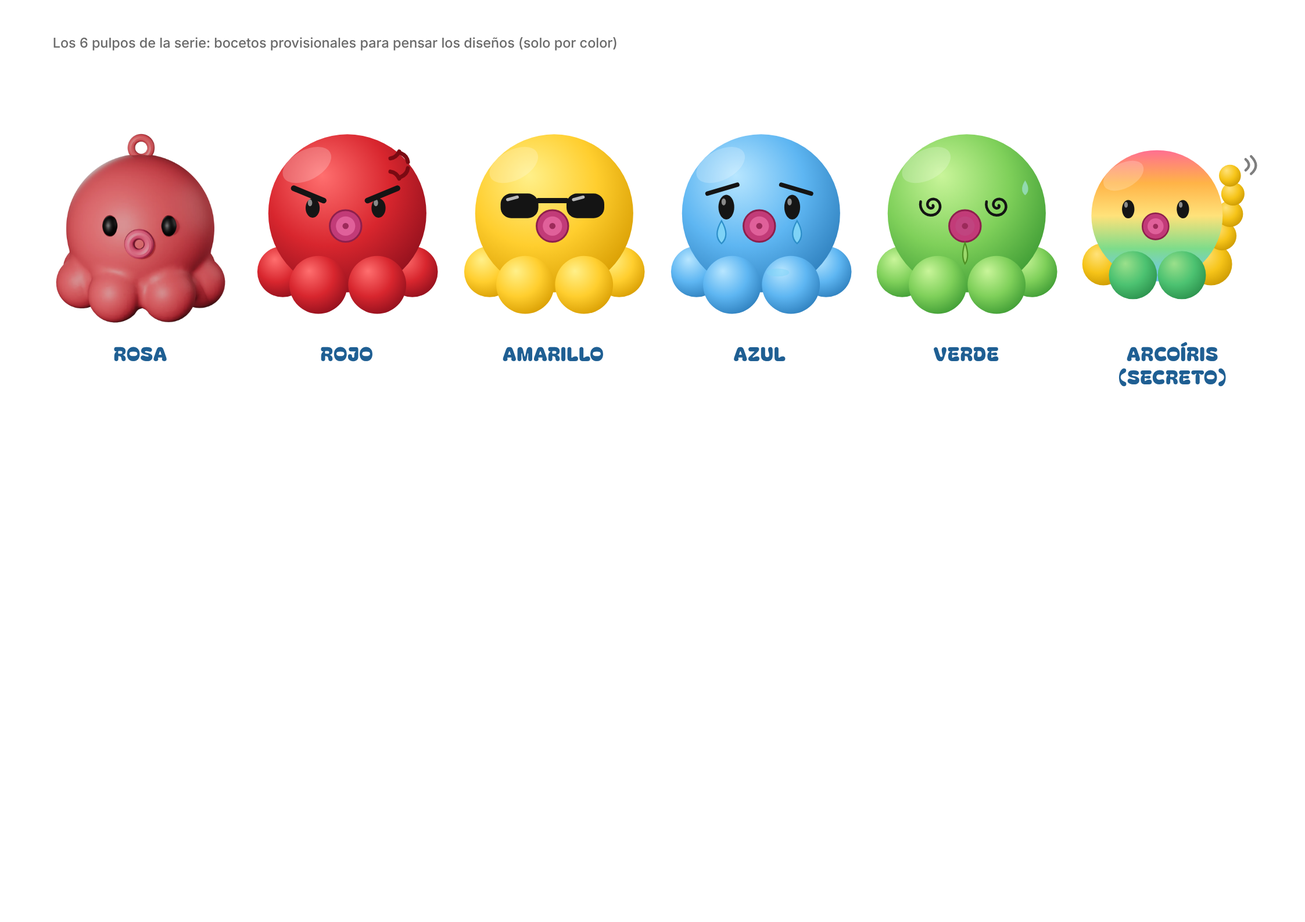
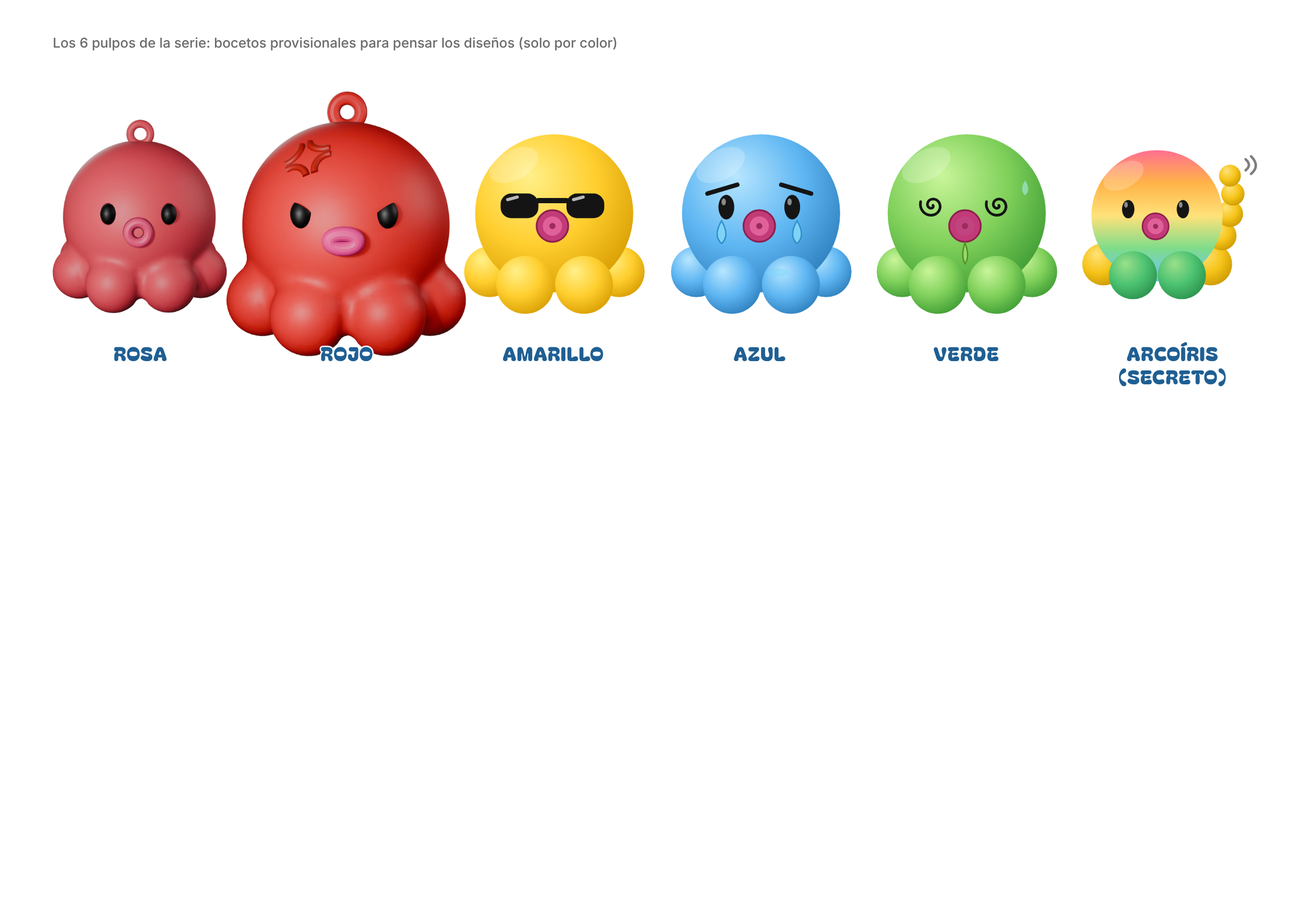
Wrapper: real red octopus render, shared crop so scales match
Claude-Session: https://claude.ai/code/session_01AQMCNjGQ1RjZg5f4v5YFio

Changed region(s): [[0.0312, 0.0926, 0.374, 0.4011]]

diff --git a/pulpos-mystery-box/diseno/personajes.html b/pulpos-mystery-box/diseno/personajes.html
@@ -9,8 +9,10 @@ body { font-family: Inter, sans-serif; background: #fff; }
 .small { font-family: var(--f), sans-serif; color: #1F5F93; -webkit-text-stroke: .6mm #FFFFFF; paint-order: stroke fill; letter-spacing: .15mm; font-size: 4.4mm; line-height: 1.2; text-align: center; }
 .note { font-size: 3.1mm; color: #6b6b6b; }
 .panel svg, .panel img { width: 100%; height: 100%; display: block; object-fit: contain; }
+.panel img { transform: scale(1.4); transform-origin: 50% 55%; }  /* los renders comparten recorte (con margen): se amplían para igualar a las siluetas */
+.panel.mini img { transform: scale(1.12); transform-origin: 50% 62%; }
 .fold { border-top: .3mm dashed #8a8a8a; }
 .foldv { border-left: .3mm dashed #8a8a8a; }
 .bubble { position: absolute; border-radius: 50%; border: .5mm solid rgba(255,255,255,.9); background: rgba(255,255,255,.35); }
 .pill { background: #BAE6FD; color: #1F5F93; -webkit-text-stroke: .5mm #FFFFFF; paint-order: stroke fill; font-family: var(--f); font-size: 3.6mm; padding: 1mm 3mm; border-radius: 3mm; }
-</style><div class="page"><div class="a note" style="left:12mm;top:8mm">Los 6 pulpos de la serie: bocetos provisionales para pensar los diseños (solo por color)</div><div class="a panel" style="left:10mm;top:30mm;width:44mm;height:44mm"><img src="pulpos/rosa.png" alt="rosa"></div><div class="a small" style="left:10mm;top:78mm;width:44mm">ROSA</div><div class="a panel" style="left:57mm;top:30mm;width:44mm;height:44mm"><svg viewBox="40 8 440 440" xmlns="http://www.w3.org/2000/svg"><defs><radialGradient id="g4" cx="40%" cy="35%" r="72%" fx="34%" fy="26%"><stop offset="0" stop-color="#FF6F6F"/><stop offset=".55" stop-color="#D8262E"/><stop offset="1" stop-color="#8E0F1C"/></radialGradient><radialGradient id="g5" cx="40%" cy="35%" r="72%" fx="34%" fy="26%"><stop offset="0" stop-color="#FF6F6F"/><stop offset=".55" stop-color="#D8262E"/><stop offset="1" stop-color="#8E0F1C"/></radialGradient><radialGradient id="g6" cx="40%" cy="35%" r="72%" fx="34%" fy="26%"><stop offset="0" stop-color="#FF6F6F"/><stop offset=".55" stop-color="#D8262E"/><stop offset="1" stop-color="#8E0F1C"/></radialGradient></defs><circle cx="115" cy="328" r="58" fill="url(#g4)"/><circle cx="410" cy="328" r="58" fill="url(#g4)"/><circle cx="262" cy="195" r="180" fill="url(#g5)"/><circle cx="196" cy="358" r="66" fill="url(#g6)"/><circle cx="330" cy="358" r="66" fill="url(#g6)"/><ellipse cx="170" cy="85" rx="60" ry="34" fill="#fff" opacity=".22" transform="rotate(-28 170 85)"/><ellipse cx="183" cy="183" rx="16" ry="22" fill="#151515"/><ellipse cx="333" cy="183" rx="16" ry="22" fill="#151515"/><ellipse cx="177" cy="171" rx="5" ry="8" fill="#fff" opacity=".5"/><ellipse cx="327" cy="171" rx="5" ry="8" fill="#fff" opacity=".5"/><circle cx="258" cy="224" r="36" fill="#C23B78"/><circle cx="258" cy="224" r="36" fill="none" stroke="#8E1F4D" stroke-width="4"/><circle cx="258" cy="224" r="22" fill="#E0609A"/><circle cx="258" cy="224" r="7" fill="#9C2A5A"/><path d="M140 138 L208 166 M376 138 L308 166" stroke="#141414" stroke-width="13" stroke-linecap="round"/><g stroke="#7A0A12" stroke-width="9" fill="none" stroke-linecap="round"><path d="M360 70 q14 -2 20 -16"/><path d="M400 78 q-2 -14 -16 -20"/><path d="M360 100 q14 2 20 16"/><path d="M400 92 q-2 14 -16 20"/></g></svg></div><div class="a small" style="left:57mm;top:78mm;width:44mm">ROJO</div><div class="a panel" style="left:104mm;top:30mm;width:44mm;height:44mm"><svg viewBox="40 8 440 440" xmlns="http://www.w3.org/2000/svg"><defs><radialGradient id="g7" cx="40%" cy="35%" r="72%" fx="34%" fy="26%"><stop offset="0" stop-color="#FFF08A"/><stop offset=".55" stop-color="#FFCE2E"/><stop offset="1" stop-color="#D69B00"/></radialGradient><radialGradient id="g8" cx="40%" cy="35%" r="72%" fx="34%" fy="26%"><stop offset="0" stop-color="#FFF08A"/><stop offset=".55" stop-color="#FFCE2E"/><stop offset="1" stop-color="#D69B00"/></radialGradient><radialGradient id="g9" cx="40%" cy="35%" r="72%" fx="34%" fy="26%"><stop offset="0" stop-color="#FFF08A"/><stop offset=".55" stop-color="#FFCE2E"/><stop offset="1" stop-color="#D69B00"/></radialGradient></defs><circle cx="115" cy="328" r="58" fill="url(#g7)"/><circle cx="410" cy="328" r="58" fill="url(#g7)"/><circle cx="262" cy="195" r="180" fill="url(#g8)"/><circle cx="196" cy="358" r="66" fill="url(#g9)"/><circle cx="330" cy="358" r="66" fill="url(#g9)"/><ellipse cx="170" cy="85" rx="60" ry="34" fill="#fff" opacity=".22" transform="rotate(-28 170 85)"/><g fill="#141414"><rect x="140" y="150" width="86" height="56" rx="24"/><rect x="290" y="150" width="86" height="56" rx="24"/><rect x="220" y="160" width="76" height="12" rx="6"/></g><path d="M156 164 l22 -6 M306 164 l22 -6" stroke="#fff" stroke-width="7" stroke-linecap="round" opacity=".7"/><circle cx="258" cy="224" r="36" fill="#C23B78"/><circle cx="258" cy="224" r="36" fill="none" stroke="#8E1F4D" stroke-width="4"/><circle cx="258" cy="224" r="22" fill="#E0609A"/><circle cx="258" cy="224" r="7" fill="#9C2A5A"/></svg></div><div class="a small" style="left:104mm;top:78mm;width:44mm">AMARILLO</div><div class="a panel" style="left:151mm;top:30mm;width:44mm;height:44mm"><svg viewBox="40 8 440 440" xmlns="http://www.w3.org/2000/svg"><defs><radialGradient id="g10" cx="40%" cy="35%" r="72%" fx="34%" fy="26%"><stop offset="0" stop-color="#B8E6FF"/><stop offset=".55" stop-color="#5EB6F2"/><stop offset="1" stop-color="#2C7DBB"/></radialGradient><radialGradient id="g11" cx="40%" cy="35%" r="72%" fx="34%" fy="26%"><stop offset="0" stop-color="#B8E6FF"/><stop offset=".55" stop-color="#5EB6F2"/><stop offset="1" stop-color="#2C7DBB"/></radialGradient><radialGradient id="g12" cx="40%" cy="35%" r="72%" fx="34%" fy="26%"><stop offset="0" stop-color="#B8E6FF"/><stop offset=".55" stop-color="#5EB6F2"/><stop offset="1" stop-color="#2C7DBB"/></radialGradient></defs><circle cx="115" cy="328" r="58" fill="url(#g10)"/><circle cx="410" cy="328" r="58" fill="url(#g10)"/><circle cx="262" cy="195" r="180" fill="url(#g11)"/><circle cx="196" cy="358" r="66" fill="url(#g12)"/><circle cx="330" cy="358" r="66" fill="url(#g12)"/><ellipse cx="170" cy="85" rx="60" ry="34" fill="#fff" opacity=".22" transform="rotate(-28 170 85)"/><ellipse cx="183" cy="181" rx="18" ry="28" fill="#151515"/><ellipse cx="333" cy="181" rx="18" ry="28" fill="#151515"/><ellipse cx="177" cy="169" rx="5" ry="8" fill="#fff" opacity=".5"/><ellipse cx="327" cy="169" rx="5" ry="8" fill="#fff" opacity=".5"/><circle cx="258" cy="224" r="36" fill="#C23B78"/><circle cx="258" cy="224" r="36" fill="none" stroke="#8E1F4D" stroke-width="4"/><circle cx="258" cy="224" r="22" fill="#E0609A"/><circle cx="258" cy="224" r="7" fill="#9C2A5A"/><path d="M140 150 L208 130 M376 150 L308 130" stroke="#141414" stroke-width="10" stroke-linecap="round"/><path d="M172 212 q-20 34 0 52 q20 -18 0 -52z" fill="#7ED3F7" stroke="#2D8FC9" stroke-width="3"/><path d="M344 212 q-20 34 0 52 q20 -18 0 -52z" fill="#7ED3F7" stroke="#2D8FC9" stroke-width="3"/><ellipse cx="300" cy="330" rx="26" ry="9" fill="#7ED3F7" opacity=".5"/></svg></div><div class="a small" style="left:151mm;top:78mm;width:44mm">AZUL</div><div class="a panel" style="left:198mm;top:30mm;width:44mm;height:44mm"><svg viewBox="40 8 440 440" xmlns="http://www.w3.org/2000/svg"><defs><radialGradient id="g13" cx="40%" cy="35%" r="72%" fx="34%" fy="26%"><stop offset="0" stop-color="#C9F59A"/><stop offset=".55" stop-color="#7FD05A"/><stop offset="1" stop-color="#3C9A33"/></radialGradient><radialGradient id="g14" cx="40%" cy="35%" r="72%" fx="34%" fy="26%"><stop offset="0" stop-color="#C9F59A"/><stop offset=".55" stop-color="#7FD05A"/><stop offset="1" stop-color="#3C9A33"/></radialGradient><radialGradient id="g15" cx="40%" cy="35%" r="72%" fx="34%" fy="26%"><stop offset="0" stop-color="#C9F59A"/><stop offset=".55" stop-color="#7FD05A"/><stop offset="1" stop-color="#3C9A33"/></radialGradient></defs><circle cx="115" cy="328" r="58" fill="url(#g13)"/><circle cx="410" cy="328" r="58" fill="url(#g13)"/><circle cx="262" cy="195" r="180" fill="url(#g14)"/><circle cx="196" cy="358" r="66" fill="url(#g15)"/><circle cx="330" cy="358" r="66" fill="url(#g15)"/><ellipse cx="170" cy="85" rx="60" ry="34" fill="#fff" opacity=".22" transform="rotate(-28 170 85)"/><path d="M185.0 177.0 L185.6 177.7 L185.9 178.6 L185.9 179.7 L185.5 180.9 L184.7 182.0 L183.4 182.9 L181.8 183.4 L180.0 183.5 L178.1 183.1 L176.2 182.1 L174.5 180.5 L173.3 178.4 L172.6 175.9 L172.6 173.1 L173.4 170.3 L174.9 167.6 L177.2 165.3 L180.1 163.6 L183.5 162.7 L187.3 162.6 L191.0 163.6 L194.6 165.5 L197.6 168.4 L199.9 172.1 L201.2 176.4 L201.5 181.1 L200.5 185.8 L198.2 190.3 L194.8 194.2 L190.5 197.2 L185.3 199.0 L179.7 199.6 L174.0 198.6 L168.5 196.2 L163.7 192.5 L159.9 187.5 L157.3 181.5 L156.4 175.0 L157.1 168.3" stroke="#141414" stroke-width="6" fill="none" stroke-linecap="round" stroke-linejoin="round"/><path d="M335.0 177.0 L335.6 177.7 L335.9 178.6 L335.9 179.7 L335.5 180.9 L334.7 182.0 L333.4 182.9 L331.8 183.4 L330.0 183.5 L328.1 183.1 L326.2 182.1 L324.5 180.5 L323.3 178.4 L322.6 175.9 L322.6 173.1 L323.4 170.3 L324.9 167.6 L327.2 165.3 L330.1 163.6 L333.5 162.7 L337.3 162.6 L341.0 163.6 L344.6 165.5 L347.6 168.4 L349.9 172.1 L351.2 176.4 L351.5 181.1 L350.5 185.8 L348.2 190.3 L344.8 194.2 L340.5 197.2 L335.3 199.0 L329.7 199.6 L324.0 198.6 L318.5 196.2 L313.7 192.5 L309.9 187.5 L307.3 181.5 L306.4 175.0 L307.1 168.3" stroke="#141414" stroke-width="6" fill="none" stroke-linecap="round" stroke-linejoin="round"/><circle cx="258" cy="224" r="36" fill="#C23B78"/><circle cx="258" cy="224" r="36" fill="none" stroke="#8E1F4D" stroke-width="4"/><circle cx="258" cy="224" r="22" fill="#C0447F"/><circle cx="258" cy="224" r="7" fill="#9C2A5A"/><path d="M258 262 q-10 30 0 48 q12 -16 0 -48z" fill="#9BD86B" stroke="#4E8F23" stroke-width="3"/><path d="M395 120 q-14 22 0 34 q14 -12 0 -34z" fill="#9BE0C6" opacity=".8"/></svg></div><div class="a small" style="left:198mm;top:78mm;width:44mm">VERDE</div><div class="a panel" style="left:245mm;top:30mm;width:44mm;height:44mm"><svg viewBox="40 8 530 440" xmlns="http://www.w3.org/2000/svg"><defs><radialGradient id="g16" cx="40%" cy="35%" r="72%" fx="34%" fy="26%"><stop offset="0" stop-color="#FFE27A"/><stop offset=".55" stop-color="#F6C419"/><stop offset="1" stop-color="#C99700"/></radialGradient><radialGradient id="g17" cx="40%" cy="35%" r="72%" fx="34%" fy="26%"><stop offset="0" stop-color="#FF9AA2"/><stop offset=".55" stop-color="#FF6F91"/><stop offset="1" stop-color="#C83E6B"/></radialGradient><radialGradient id="g18" cx="40%" cy="35%" r="72%" fx="34%" fy="26%"><stop offset="0" stop-color="#9BE08B"/><stop offset=".55" stop-color="#4CC271"/><stop offset="1" stop-color="#2A8F4B"/></radialGradient><linearGradient id="rb" x1="0" y1="0" x2="0" y2="1"><stop offset="0" stop-color="#FF6F91"/><stop offset=".25" stop-color="#FFB347"/><stop offset=".5" stop-color="#FFE27A"/><stop offset=".75" stop-color="#7EDC8A"/><stop offset="1" stop-color="#6EC1FF"/></linearGradient></defs><circle cx="115" cy="328" r="58" fill="url(#g16)"/><circle cx="410" cy="328" r="58" fill="url(#g16)"/><circle cx="440" cy="250" r="40" fill="url(#g16)"/><circle cx="462" cy="190" r="36" fill="url(#g16)"/><circle cx="470" cy="135" r="32" fill="url(#g16)"/><circle cx="462" cy="85" r="30" fill="url(#g16)"/><path d="M505 70 q18 -14 0 -30 M520 80 q26 -22 0 -48" stroke="#141414" stroke-width="7" fill="none" stroke-linecap="round" opacity=".55"/><circle cx="262" cy="195" r="180" fill="url(#rb)"/><circle cx="196" cy="358" r="66" fill="url(#g18)"/><circle cx="330" cy="358" r="66" fill="url(#g18)"/><ellipse cx="170" cy="85" rx="60" ry="34" fill="#fff" opacity=".22" transform="rotate(-28 170 85)"/><ellipse cx="183" cy="177" rx="17" ry="25" fill="#151515"/><ellipse cx="333" cy="177" rx="17" ry="25" fill="#151515"/><ellipse cx="177" cy="165" rx="5" ry="8" fill="#fff" opacity=".5"/><ellipse cx="327" cy="165" rx="5" ry="8" fill="#fff" opacity=".5"/><circle cx="258" cy="224" r="36" fill="#C23B78"/><circle cx="258" cy="224" r="36" fill="none" stroke="#8E1F4D" stroke-width="4"/><circle cx="258" cy="224" r="22" fill="#E0609A"/><circle cx="258" cy="224" r="7" fill="#9C2A5A"/><path d="M150 135 q33 -22 66 0 M300 135 q33 -22 66 0" stroke="#141414" stroke-width="7" fill="none" stroke-linecap="round" opacity=".0"/></svg></div><div class="a small" style="left:245mm;top:78mm;width:44mm">ARCOÍRIS (SECRETO)</div></div>
+</style><div class="page"><div class="a note" style="left:12mm;top:8mm">Los 6 pulpos de la serie: bocetos provisionales para pensar los diseños (solo por color)</div><div class="a panel" style="left:10mm;top:30mm;width:44mm;height:44mm"><img src="pulpos/rosa.png" alt="rosa"></div><div class="a small" style="left:10mm;top:78mm;width:44mm">ROSA</div><div class="a panel" style="left:57mm;top:30mm;width:44mm;height:44mm"><img src="pulpos/rojo.png" alt="rojo"></div><div class="a small" style="left:57mm;top:78mm;width:44mm">ROJO</div><div class="a panel" style="left:104mm;top:30mm;width:44mm;height:44mm"><svg viewBox="40 8 440 440" xmlns="http://www.w3.org/2000/svg"><defs><radialGradient id="g7" cx="40%" cy="35%" r="72%" fx="34%" fy="26%"><stop offset="0" stop-color="#FFF08A"/><stop offset=".55" stop-color="#FFCE2E"/><stop offset="1" stop-color="#D69B00"/></radialGradient><radialGradient id="g8" cx="40%" cy="35%" r="72%" fx="34%" fy="26%"><stop offset="0" stop-color="#FFF08A"/><stop offset=".55" stop-color="#FFCE2E"/><stop offset="1" stop-color="#D69B00"/></radialGradient><radialGradient id="g9" cx="40%" cy="35%" r="72%" fx="34%" fy="26%"><stop offset="0" stop-color="#FFF08A"/><stop offset=".55" stop-color="#FFCE2E"/><stop offset="1" stop-color="#D69B00"/></radialGradient></defs><circle cx="115" cy="328" r="58" fill="url(#g7)"/><circle cx="410" cy="328" r="58" fill="url(#g7)"/><circle cx="262" cy="195" r="180" fill="url(#g8)"/><circle cx="196" cy="358" r="66" fill="url(#g9)"/><circle cx="330" cy="358" r="66" fill="url(#g9)"/><ellipse cx="170" cy="85" rx="60" ry="34" fill="#fff" opacity=".22" transform="rotate(-28 170 85)"/><g fill="#141414"><rect x="140" y="150" width="86" height="56" rx="24"/><rect x="290" y="150" width="86" height="56" rx="24"/><rect x="220" y="160" width="76" height="12" rx="6"/></g><path d="M156 164 l22 -6 M306 164 l22 -6" stroke="#fff" stroke-width="7" stroke-linecap="round" opacity=".7"/><circle cx="258" cy="224" r="36" fill="#C23B78"/><circle cx="258" cy="224" r="36" fill="none" stroke="#8E1F4D" stroke-width="4"/><circle cx="258" cy="224" r="22" fill="#E0609A"/><circle cx="258" cy="224" r="7" fill="#9C2A5A"/></svg></div><div class="a small" style="left:104mm;top:78mm;width:44mm">AMARILLO</div><div class="a panel" style="left:151mm;top:30mm;width:44mm;height:44mm"><svg viewBox="40 8 440 440" xmlns="http://www.w3.org/2000/svg"><defs><radialGradient id="g10" cx="40%" cy="35%" r="72%" fx="34%" fy="26%"><stop offset="0" stop-color="#B8E6FF"/><stop offset=".55" stop-color="#5EB6F2"/><stop offset="1" stop-color="#2C7DBB"/></radialGradient><radialGradient id="g11" cx="40%" cy="35%" r="72%" fx="34%" fy="26%"><stop offset="0" stop-color="#B8E6FF"/><stop offset=".55" stop-color="#5EB6F2"/><stop offset="1" stop-color="#2C7DBB"/></radialGradient><radialGradient id="g12" cx="40%" cy="35%" r="72%" fx="34%" fy="26%"><stop offset="0" stop-color="#B8E6FF"/><stop offset=".55" stop-color="#5EB6F2"/><stop offset="1" stop-color="#2C7DBB"/></radialGradient></defs><circle cx="115" cy="328" r="58" fill="url(#g10)"/><circle cx="410" cy="328" r="58" fill="url(#g10)"/><circle cx="262" cy="195" r="180" fill="url(#g11)"/><circle cx="196" cy="358" r="66" fill="url(#g12)"/><circle cx="330" cy="358" r="66" fill="url(#g12)"/><ellipse cx="170" cy="85" rx="60" ry="34" fill="#fff" opacity=".22" transform="rotate(-28 170 85)"/><ellipse cx="183" cy="181" rx="18" ry="28" fill="#151515"/><ellipse cx="333" cy="181" rx="18" ry="28" fill="#151515"/><ellipse cx="177" cy="169" rx="5" ry="8" fill="#fff" opacity=".5"/><ellipse cx="327" cy="169" rx="5" ry="8" fill="#fff" opacity=".5"/><circle cx="258" cy="224" r="36" fill="#C23B78"/><circle cx="258" cy="224" r="36" fill="none" stroke="#8E1F4D" stroke-width="4"/><circle cx="258" cy="224" r="22" fill="#E0609A"/><circle cx="258" cy="224" r="7" fill="#9C2A5A"/><path d="M140 150 L208 130 M376 150 L308 130" stroke="#141414" stroke-width="10" stroke-linecap="round"/><path d="M172 212 q-20 34 0 52 q20 -18 0 -52z" fill="#7ED3F7" stroke="#2D8FC9" stroke-width="3"/><path d="M344 212 q-20 34 0 52 q20 -18 0 -52z" fill="#7ED3F7" stroke="#2D8FC9" stroke-width="3"/><ellipse cx="300" cy="330" rx="26" ry="9" fill="#7ED3F7" opacity=".5"/></svg></div><div class="a small" style="left:151mm;top:78mm;width:44mm">AZUL</div><div class="a panel" style="left:198mm;top:30mm;width:44mm;height:44mm"><svg viewBox="40 8 440 440" xmlns="http://www.w3.org/2000/svg"><defs><radialGradient id="g13" cx="40%" cy="35%" r="72%" fx="34%" fy="26%"><stop offset="0" stop-color="#C9F59A"/><stop offset=".55" stop-color="#7FD05A"/><stop offset="1" stop-color="#3C9A33"/></radialGradient><radialGradient id="g14" cx="40%" cy="35%" r="72%" fx="34%" fy="26%"><stop offset="0" stop-color="#C9F59A"/><stop offset=".55" stop-color="#7FD05A"/><stop offset="1" stop-color="#3C9A33"/></radialGradient><radialGradient id="g15" cx="40%" cy="35%" r="72%" fx="34%" fy="26%"><stop offset="0" stop-color="#C9F59A"/><stop offset=".55" stop-color="#7FD05A"/><stop offset="1" stop-color="#3C9A33"/></radialGradient></defs><circle cx="115" cy="328" r="58" fill="url(#g13)"/><circle cx="410" cy="328" r="58" fill="url(#g13)"/><circle cx="262" cy="195" r="180" fill="url(#g14)"/><circle cx="196" cy="358" r="66" fill="url(#g15)"/><circle cx="330" cy="358" r="66" fill="url(#g15)"/><ellipse cx="170" cy="85" rx="60" ry="34" fill="#fff" opacity=".22" transform="rotate(-28 170 85)"/><path d="M185.0 177.0 L185.6 177.7 L185.9 178.6 L185.9 179.7 L185.5 180.9 L184.7 182.0 L183.4 182.9 L181.8 183.4 L180.0 183.5 L178.1 183.1 L176.2 182.1 L174.5 180.5 L173.3 178.4 L172.6 175.9 L172.6 173.1 L173.4 170.3 L174.9 167.6 L177.2 165.3 L180.1 163.6 L183.5 162.7 L187.3 162.6 L191.0 163.6 L194.6 165.5 L197.6 168.4 L199.9 172.1 L201.2 176.4 L201.5 181.1 L200.5 185.8 L198.2 190.3 L194.8 194.2 L190.5 197.2 L185.3 199.0 L179.7 199.6 L174.0 198.6 L168.5 196.2 L163.7 192.5 L159.9 187.5 L157.3 181.5 L156.4 175.0 L157.1 168.3" stroke="#141414" stroke-width="6" fill="none" stroke-linecap="round" stroke-linejoin="round"/><path d="M335.0 177.0 L335.6 177.7 L335.9 178.6 L335.9 179.7 L335.5 180.9 L334.7 182.0 L333.4 182.9 L331.8 183.4 L330.0 183.5 L328.1 183.1 L326.2 182.1 L324.5 180.5 L323.3 178.4 L322.6 175.9 L322.6 173.1 L323.4 170.3 L324.9 167.6 L327.2 165.3 L330.1 163.6 L333.5 162.7 L337.3 162.6 L341.0 163.6 L344.6 165.5 L347.6 168.4 L349.9 172.1 L351.2 176.4 L351.5 181.1 L350.5 185.8 L348.2 190.3 L344.8 194.2 L340.5 197.2 L335.3 199.0 L329.7 199.6 L324.0 198.6 L318.5 196.2 L313.7 192.5 L309.9 187.5 L307.3 181.5 L306.4 175.0 L307.1 168.3" stroke="#141414" stroke-width="6" fill="none" stroke-linecap="round" stroke-linejoin="round"/><circle cx="258" cy="224" r="36" fill="#C23B78"/><circle cx="258" cy="224" r="36" fill="none" stroke="#8E1F4D" stroke-width="4"/><circle cx="258" cy="224" r="22" fill="#C0447F"/><circle cx="258" cy="224" r="7" fill="#9C2A5A"/><path d="M258 262 q-10 30 0 48 q12 -16 0 -48z" fill="#9BD86B" stroke="#4E8F23" stroke-width="3"/><path d="M395 120 q-14 22 0 34 q14 -12 0 -34z" fill="#9BE0C6" opacity=".8"/></svg></div><div class="a small" style="left:198mm;top:78mm;width:44mm">VERDE</div><div class="a panel" style="left:245mm;top:30mm;width:44mm;height:44mm"><svg viewBox="40 8 530 440" xmlns="http://www.w3.org/2000/svg"><defs><radialGradient id="g16" cx="40%" cy="35%" r="72%" fx="34%" fy="26%"><stop offset="0" stop-color="#FFE27A"/><stop offset=".55" stop-color="#F6C419"/><stop offset="1" stop-color="#C99700"/></radialGradient><radialGradient id="g17" cx="40%" cy="35%" r="72%" fx="34%" fy="26%"><stop offset="0" stop-color="#FF9AA2"/><stop offset=".55" stop-color="#FF6F91"/><stop offset="1" stop-color="#C83E6B"/></radialGradient><radialGradient id="g18" cx="40%" cy="35%" r="72%" fx="34%" fy="26%"><stop offset="0" stop-color="#9BE08B"/><stop offset=".55" stop-color="#4CC271"/><stop offset="1" stop-color="#2A8F4B"/></radialGradient><linearGradient id="rb" x1="0" y1="0" x2="0" y2="1"><stop offset="0" stop-color="#FF6F91"/><stop offset=".25" stop-color="#FFB347"/><stop offset=".5" stop-color="#FFE27A"/><stop offset=".75" stop-color="#7EDC8A"/><stop offset="1" stop-color="#6EC1FF"/></linearGradient></defs><circle cx="115" cy="328" r="58" fill="url(#g16)"/><circle cx="410" cy="328" r="58" fill="url(#g16)"/><circle cx="440" cy="250" r="40" fill="url(#g16)"/><circle cx="462" cy="190" r="36" fill="url(#g16)"/><circle cx="470" cy="135" r="32" fill="url(#g16)"/><circle cx="462" cy="85" r="30" fill="url(#g16)"/><path d="M505 70 q18 -14 0 -30 M520 80 q26 -22 0 -48" stroke="#141414" stroke-width="7" fill="none" stroke-linecap="round" opacity=".55"/><circle cx="262" cy="195" r="180" fill="url(#rb)"/><circle cx="196" cy="358" r="66" fill="url(#g18)"/><circle cx="330" cy="358" r="66" fill="url(#g18)"/><ellipse cx="170" cy="85" rx="60" ry="34" fill="#fff" opacity=".22" transform="rotate(-28 170 85)"/><ellipse cx="183" cy="177" rx="17" ry="25" fill="#151515"/><ellipse cx="333" cy="177" rx="17" ry="25" fill="#151515"/><ellipse cx="177" cy="165" rx="5" ry="8" fill="#fff" opacity=".5"/><ellipse cx="327" cy="165" rx="5" ry="8" fill="#fff" opacity=".5"/><circle cx="258" cy="224" r="36" fill="#C23B78"/><circle cx="258" cy="224" r="36" fill="none" stroke="#8E1F4D" stroke-width="4"/><circle cx="258" cy="224" r="22" fill="#E0609A"/><circle cx="258" cy="224" r="7" fill="#9C2A5A"/><path d="M150 135 q33 -22 66 0 M300 135 q33 -22 66 0" stroke="#141414" stroke-width="7" fill="none" stroke-linecap="round" opacity=".0"/></svg></div><div class="a small" style="left:245mm;top:78mm;width:44mm">ARCOÍRIS (SECRETO)</div></div>

diff --git a/pulpos-mystery-box/diseno/envoltorio-plano.html b/pulpos-mystery-box/diseno/envoltorio-plano.html
@@ -9,8 +9,10 @@ body { font-family: Inter, sans-serif; background: #fff; }
 .small { font-family: var(--f), sans-serif; color: #1F5F93; -webkit-text-stroke: .6mm #FFFFFF; paint-order: stroke fill; letter-spacing: .15mm; font-size: 4.4mm; line-height: 1.2; text-align: center; }
 .note { font-size: 3.1mm; color: #6b6b6b; }
 .panel svg, .panel img { width: 100%; height: 100%; display: block; object-fit: contain; }
+.panel img { transform: scale(1.4); transform-origin: 50% 55%; }  /* los renders comparten recorte (con margen): se amplían para igualar a las siluetas */
+.panel.mini img { transform: scale(1.12); transform-origin: 50% 62%; }
 .fold { border-top: .3mm dashed #8a8a8a; }
 .foldv { border-left: .3mm dashed #8a8a8a; }
 .bubble { position: absolute; border-radius: 50%; border: .5mm solid rgba(255,255,255,.9); background: rgba(255,255,255,.35); }
 .pill { background: #BAE6FD; color: #1F5F93; -webkit-text-stroke: .5mm #FFFFFF; paint-order: stroke fill; font-family: var(--f); font-size: 3.6mm; padding: 1mm 3mm; border-radius: 3mm; }
-</style><div class="a" style="left:31mm;top:20mm;width:235mm;height:170mm;background:#FEF3C9"></div><div class="a" style="left:251mm;top:65mm;width:15mm;height:80mm;background:repeating-linear-gradient(135deg,#e7f6ff 0 2mm,#d3eefd 2mm 4mm)"></div><div class="a" style="left:31mm;top:65mm;width:110mm;height:80mm"><div class="a pill" style="left:4mm;top:71mm">SÉRIE 1</div><div class="a" style="left:0;top:2mm;width:110mm"><div class="title" style="font-size:21mm">OctoMood</div></div><div class="a panel" style="left:28mm;top:25mm;width:53mm;height:53mm"><img src="pulpos/rosa.png" alt="rosa"></div></div><div class="a" style="left:141mm;top:65mm;width:110mm;height:80mm"><div class="a small" style="left:0;top:3mm;width:110mm;font-size:5.6mm">QUEL EST TON MOOD ?</div><div class="a panel" style="left:3.0mm;top:14mm;width:20mm;height:20mm"><svg viewBox="40 8 440 440" xmlns="http://www.w3.org/2000/svg"><g fill="#BAE6FD"><circle cx="115" cy="328" r="58"/><circle cx="410" cy="328" r="58"/><circle cx="262" cy="195" r="180"/><circle cx="196" cy="358" r="66"/><circle cx="330" cy="358" r="66"/></g><text x="262" y="262" text-anchor="middle" font-family="Bagel Fat One" font-size="170" fill="#1F5F93">?</text></svg></div><div class="a panel" style="left:23.5mm;top:14mm;width:20mm;height:20mm"><svg viewBox="40 8 440 440" xmlns="http://www.w3.org/2000/svg"><g fill="#BAE6FD"><circle cx="115" cy="328" r="58"/><circle cx="410" cy="328" r="58"/><circle cx="262" cy="195" r="180"/><circle cx="196" cy="358" r="66"/><circle cx="330" cy="358" r="66"/></g><text x="262" y="262" text-anchor="middle" font-family="Bagel Fat One" font-size="170" fill="#1F5F93">?</text></svg></div><div class="a panel" style="left:44.0mm;top:14mm;width:20mm;height:20mm"><svg viewBox="40 8 440 440" xmlns="http://www.w3.org/2000/svg"><g fill="#BAE6FD"><circle cx="115" cy="328" r="58"/><circle cx="410" cy="328" r="58"/><circle cx="262" cy="195" r="180"/><circle cx="196" cy="358" r="66"/><circle cx="330" cy="358" r="66"/></g><text x="262" y="262" text-anchor="middle" font-family="Bagel Fat One" font-size="170" fill="#1F5F93">?</text></svg></div><div class="a panel" style="left:64.5mm;top:14mm;width:20mm;height:20mm"><svg viewBox="40 8 440 440" xmlns="http://www.w3.org/2000/svg"><g fill="#BAE6FD"><circle cx="115" cy="328" r="58"/><circle cx="410" cy="328" r="58"/><circle cx="262" cy="195" r="180"/><circle cx="196" cy="358" r="66"/><circle cx="330" cy="358" r="66"/></g><text x="262" y="262" text-anchor="middle" font-family="Bagel Fat One" font-size="170" fill="#1F5F93">?</text></svg></div><div class="a panel" style="left:85.0mm;top:14mm;width:20mm;height:20mm"><svg viewBox="40 8 440 440" xmlns="http://www.w3.org/2000/svg"><g fill="#161616"><circle cx="115" cy="328" r="58"/><circle cx="410" cy="328" r="58"/><circle cx="262" cy="195" r="180"/><circle cx="196" cy="358" r="66"/><circle cx="330" cy="358" r="66"/></g><text x="262" y="262" text-anchor="middle" font-family="Bagel Fat One" font-size="170" fill="#FFD84D">?</text></svg></div><div class="a panel" style="left:30mm;top:36mm;width:0;height:0"></div><div class="a small" style="left:6mm;top:40mm;width:98mm;font-size:4mm">1 PORTE-CLÉS MYSTÈRE PAR BOÎTE</div><div class="a small" style="left:6mm;top:49mm;width:98mm;font-size:3.6mm">5 COULEURS + 1 SECRET · SECRET : 1 CHANCE SUR 10</div><div class="a small" style="left:6mm;top:62mm;width:98mm;font-size:3.6mm">RenardLab3D · Metz</div><div class="a small" style="left:6mm;top:68mm;width:98mm;font-size:3.2mm">@renardlab3d · impression 3D · ~5 cm</div></div><div class="a fold" style="left:25mm;top:65mm;width:247mm"></div><div class="a fold" style="left:25mm;top:145mm;width:247mm"></div><div class="a foldv" style="left:141mm;top:65mm;height:80mm"></div><div class="a foldv" style="left:251mm;top:65mm;height:80mm"></div><div class="a note" style="left:31mm;top:12mm">Boceto A4 horizontal · envoltorio 235 × 170 mm · tubo de ≈ 7 cm de diámetro · - - - dobleces</div><div class="a note" style="left:251mm;top:147mm">pestaña de pegamento</div><div class="a note" style="left:33mm;top:192mm">Solapa superior 45 mm · cuerpo 80 mm · solapa inferior 45 mm · siluetas «?» = pulpos aún no revelados</div></div>
+</style><div class="a" style="left:31mm;top:20mm;width:235mm;height:170mm;background:#FEF3C9"></div><div class="a" style="left:251mm;top:65mm;width:15mm;height:80mm;background:repeating-linear-gradient(135deg,#e7f6ff 0 2mm,#d3eefd 2mm 4mm)"></div><div class="a" style="left:31mm;top:65mm;width:110mm;height:80mm"><div class="a pill" style="left:4mm;top:71mm">SÉRIE 1</div><div class="a" style="left:0;top:2mm;width:110mm"><div class="title" style="font-size:21mm">OctoMood</div></div><div class="a panel" style="left:28mm;top:25mm;width:53mm;height:53mm"><img src="pulpos/rosa.png" alt="rosa"></div></div><div class="a" style="left:141mm;top:65mm;width:110mm;height:80mm"><div class="a small" style="left:0;top:3mm;width:110mm;font-size:5.6mm">QUEL EST TON MOOD ?</div><div class="a panel mini" style="left:3.0mm;top:14mm;width:20mm;height:20mm"><img src="pulpos/rojo.png" alt="rojo"></div><div class="a panel mini" style="left:23.5mm;top:14mm;width:20mm;height:20mm"><svg viewBox="40 8 440 440" xmlns="http://www.w3.org/2000/svg"><g fill="#BAE6FD"><circle cx="115" cy="328" r="58"/><circle cx="410" cy="328" r="58"/><circle cx="262" cy="195" r="180"/><circle cx="196" cy="358" r="66"/><circle cx="330" cy="358" r="66"/></g><text x="262" y="262" text-anchor="middle" font-family="Bagel Fat One" font-size="170" fill="#1F5F93">?</text></svg></div><div class="a panel mini" style="left:44.0mm;top:14mm;width:20mm;height:20mm"><svg viewBox="40 8 440 440" xmlns="http://www.w3.org/2000/svg"><g fill="#BAE6FD"><circle cx="115" cy="328" r="58"/><circle cx="410" cy="328" r="58"/><circle cx="262" cy="195" r="180"/><circle cx="196" cy="358" r="66"/><circle cx="330" cy="358" r="66"/></g><text x="262" y="262" text-anchor="middle" font-family="Bagel Fat One" font-size="170" fill="#1F5F93">?</text></svg></div><div class="a panel mini" style="left:64.5mm;top:14mm;width:20mm;height:20mm"><svg viewBox="40 8 440 440" xmlns="http://www.w3.org/2000/svg"><g fill="#BAE6FD"><circle cx="115" cy="328" r="58"/><circle cx="410" cy="328" r="58"/><circle cx="262" cy="195" r="180"/><circle cx="196" cy="358" r="66"/><circle cx="330" cy="358" r="66"/></g><text x="262" y="262" text-anchor="middle" font-family="Bagel Fat One" font-size="170" fill="#1F5F93">?</text></svg></div><div class="a panel mini" style="left:85.0mm;top:14mm;width:20mm;height:20mm"><svg viewBox="40 8 440 440" xmlns="http://www.w3.org/2000/svg"><g fill="#161616"><circle cx="115" cy="328" r="58"/><circle cx="410" cy="328" r="58"/><circle cx="262" cy="195" r="180"/><circle cx="196" cy="358" r="66"/><circle cx="330" cy="358" r="66"/></g><text x="262" y="262" text-anchor="middle" font-family="Bagel Fat One" font-size="170" fill="#FFD84D">?</text></svg></div><div class="a panel" style="left:30mm;top:36mm;width:0;height:0"></div><div class="a small" style="left:6mm;top:40mm;width:98mm;font-size:4mm">1 PORTE-CLÉS MYSTÈRE PAR BOÎTE</div><div class="a small" style="left:6mm;top:49mm;width:98mm;font-size:3.6mm">5 COULEURS + 1 SECRET · SECRET : 1 CHANCE SUR 10</div><div class="a small" style="left:6mm;top:62mm;width:98mm;font-size:3.6mm">RenardLab3D · Metz</div><div class="a small" style="left:6mm;top:68mm;width:98mm;font-size:3.2mm">@renardlab3d · impression 3D · ~5 cm</div></div><div class="a fold" style="left:25mm;top:65mm;width:247mm"></div><div class="a fold" style="left:25mm;top:145mm;width:247mm"></div><div class="a foldv" style="left:141mm;top:65mm;height:80mm"></div><div class="a foldv" style="left:251mm;top:65mm;height:80mm"></div><div class="a note" style="left:31mm;top:12mm">Boceto A4 horizontal · envoltorio 235 × 170 mm · tubo de ≈ 7 cm de diámetro · - - - dobleces</div><div class="a note" style="left:251mm;top:147mm">pestaña de pegamento</div><div class="a note" style="left:33mm;top:192mm">Solapa superior 45 mm · cuerpo 80 mm · solapa inferior 45 mm · siluetas «?» = pulpos aún no revelados</div></div>

diff --git a/pulpos-mystery-box/diseno/comparacion-nombres.html b/pulpos-mystery-box/diseno/comparacion-nombres.html
@@ -9,6 +9,8 @@ body { font-family: Inter, sans-serif; background: #fff; }
 .small { font-family: var(--f), sans-serif; color: #1F5F93; -webkit-text-stroke: .6mm #FFFFFF; paint-order: stroke fill; letter-spacing: .15mm; font-size: 4.4mm; line-height: 1.2; text-align: center; }
 .note { font-size: 3.1mm; color: #6b6b6b; }
 .panel svg, .panel img { width: 100%; height: 100%; display: block; object-fit: contain; }
+.panel img { transform: scale(1.4); transform-origin: 50% 55%; }  /* los renders comparten recorte (con margen): se amplían para igualar a las siluetas */
+.panel.mini img { transform: scale(1.12); transform-origin: 50% 62%; }
 .fold { border-top: .3mm dashed #8a8a8a; }
 .foldv { border-left: .3mm dashed #8a8a8a; }
 .bubble { position: absolute; border-radius: 50%; border: .5mm solid rgba(255,255,255,.9); background: rgba(255,255,255,.35); }

diff --git a/pulpos-mystery-box/diseno/gen_envoltorio.py b/pulpos-mystery-box/diseno/gen_envoltorio.py
@@ -101,6 +101,8 @@ body {{ font-family: Inter, sans-serif; background: #fff; }}
 .small {{ font-family: var(--f), sans-serif; color: {TX}; -webkit-text-stroke: .6mm #FFFFFF; paint-order: stroke fill; letter-spacing: .15mm; font-size: 4.4mm; line-height: 1.2; text-align: center; }}
 .note {{ font-size: 3.1mm; color: #6b6b6b; }}
 .panel svg, .panel img {{ width: 100%; height: 100%; display: block; object-fit: contain; }}
+.panel img {{ transform: scale(1.4); transform-origin: 50% 55%; }}  /* los renders comparten recorte (con margen): se amplían para igualar a las siluetas */
+.panel.mini img {{ transform: scale(1.12); transform-origin: 50% 62%; }}
 .fold {{ border-top: .3mm dashed #8a8a8a; }}
 .foldv {{ border-left: .3mm dashed #8a8a8a; }}
 .bubble {{ position: absolute; border-radius: 50%; border: .5mm solid rgba(255,255,255,.9); background: rgba(255,255,255,.35); }}
@@ -132,7 +134,7 @@ def flat(name):
     def rev(n, o): return o if os.path.exists(os.path.join(OUT, "pulpos", n + ".png")) else SILQ  # sin render real = silueta
     row = [rev("rojo", RED), rev("amarillo", YELLOW), rev("azul", BLUE_O), rev("verde", GREEN), SIL]
     for i, o in enumerate(row):
-        h += f'<div class="a panel" style="left:{3+i*20.5}mm;top:14mm;width:20mm;height:20mm">{o}</div>'
+        h += f'<div class="a panel mini" style="left:{3+i*20.5}mm;top:14mm;width:20mm;height:20mm">{o}</div>'
     h += f'<div class="a panel" style="left:30mm;top:36mm;width:0;height:0"></div>'
     h += f'<div class="a small" style="left:6mm;top:40mm;width:98mm;font-size:4mm">1 PORTE-CLÉS MYSTÈRE PAR BOÎTE</div>'
     h += f'<div class="a small" style="left:6mm;top:49mm;width:98mm;font-size:3.6mm">5 COULEURS + 1 SECRET · SECRET : 1 CHANCE SUR 10</div>'
